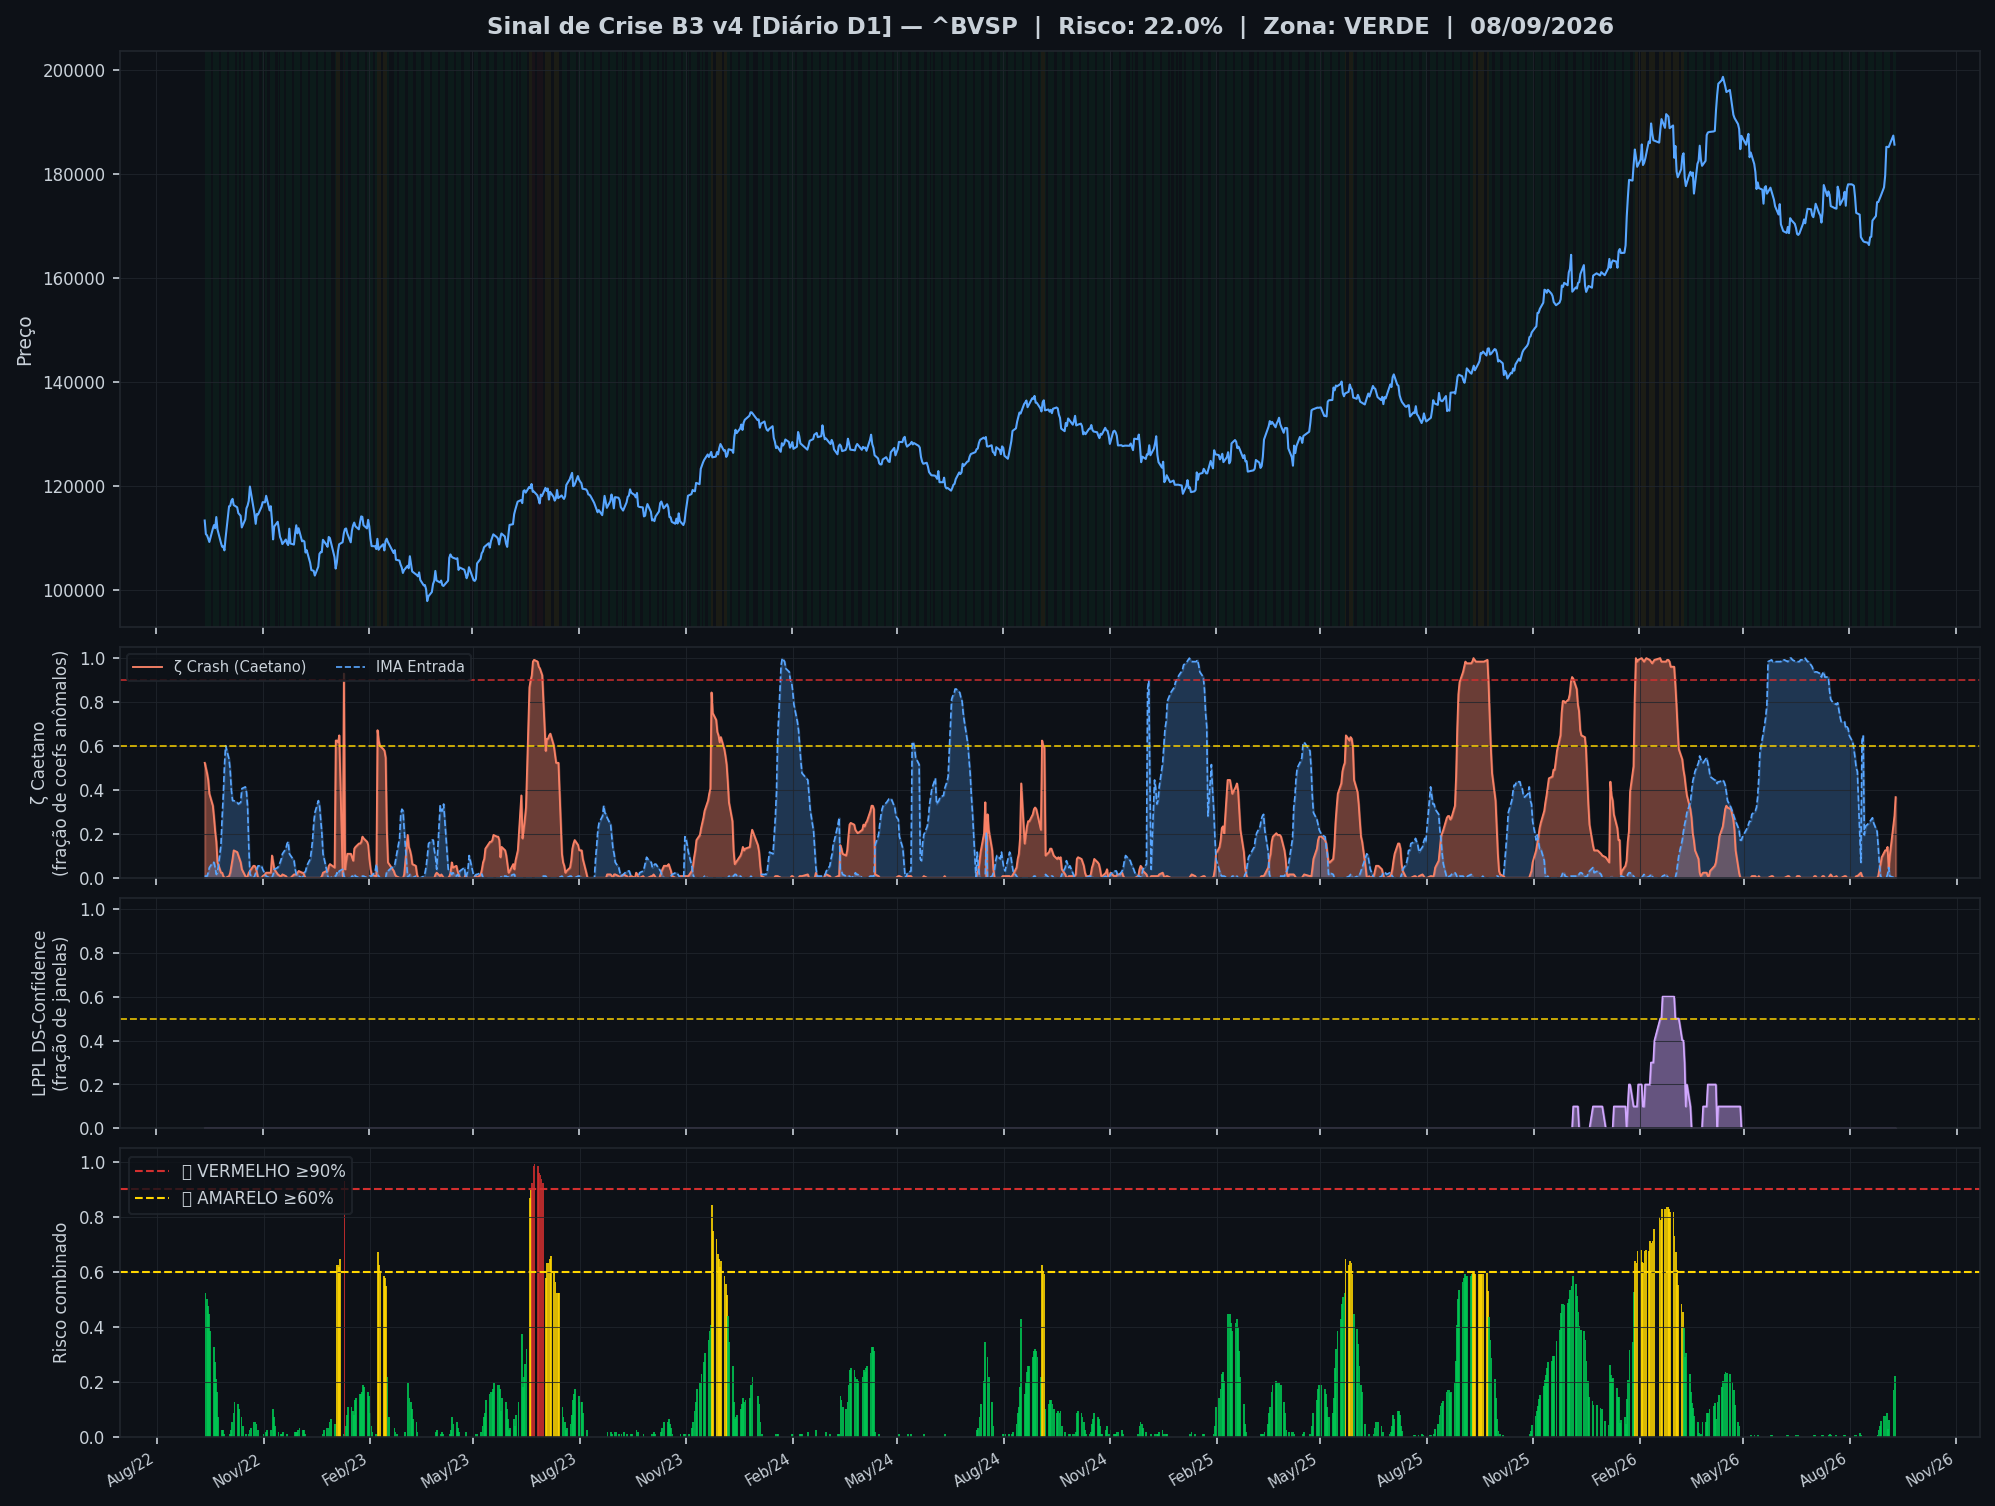
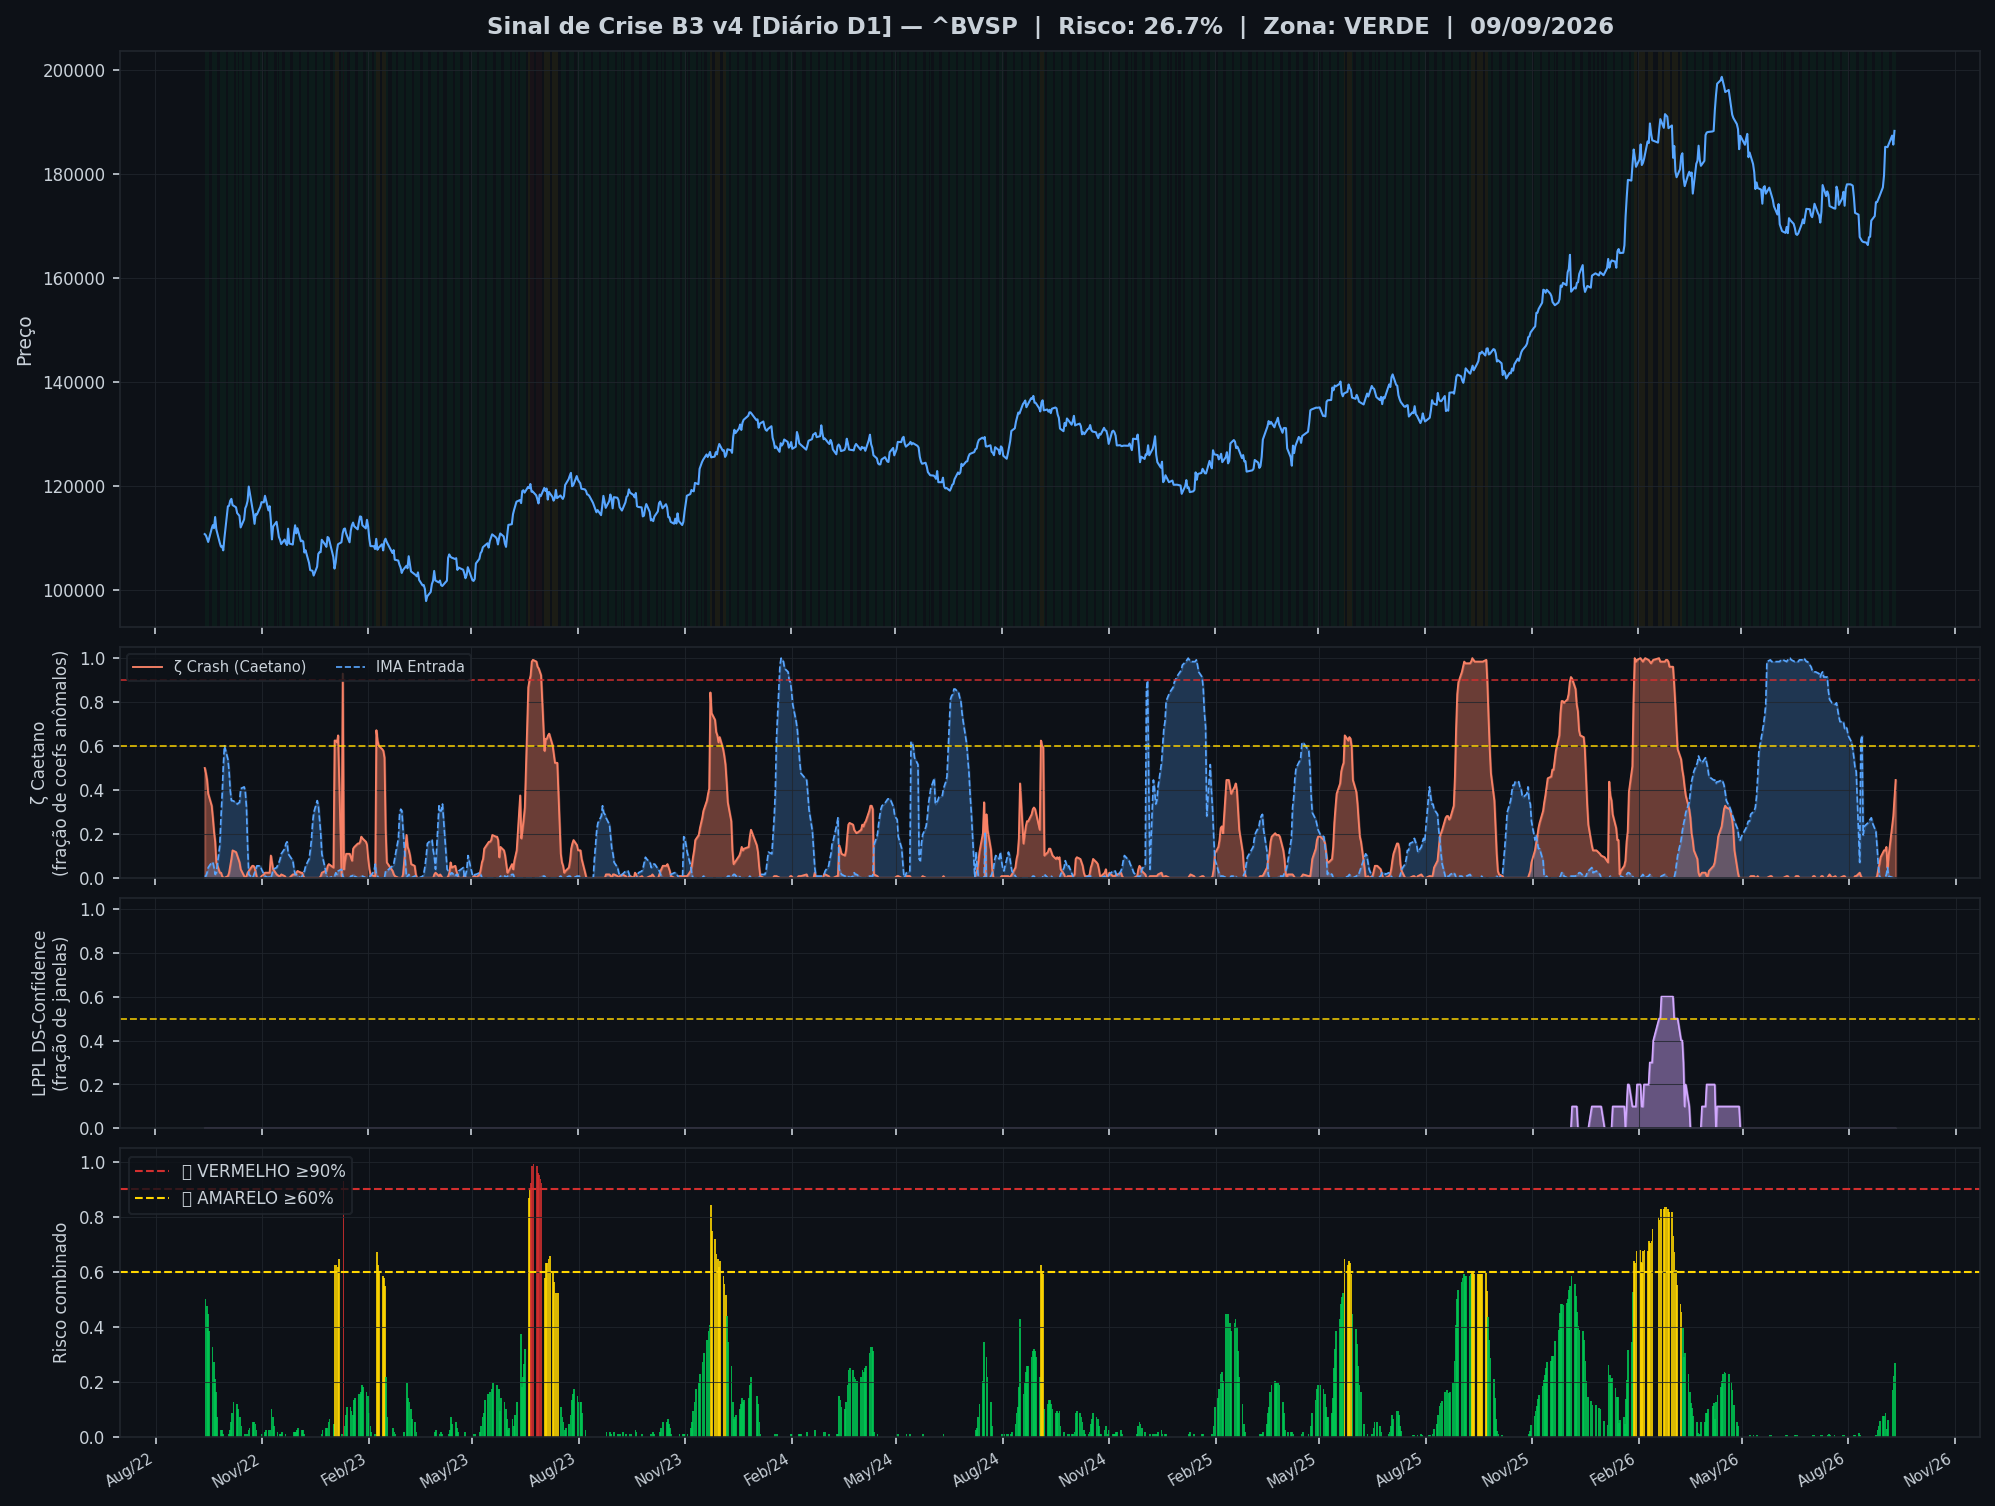
🤖 Auto: Sinal 10/09/2026 19:00

diff --git a/content/diario/2026-09-09.md b/content/diario/2026-09-09.md
@@ -1,0 +1,103 @@
+---
+title: "🟢 Diário 09/09/2026 — VERDE"
+date: 2026-09-10
+tags: [diario]
+---
+
+> [!success] 🟢 **VERDE** — Risco 27% · ▲ +5 p.p. vs leitura anterior
+> `█████░░░░░░░░░░░░░░░`
+> Mercado sem sinais relevantes de estresse.
+
+
+| Indicador | Valor |
+|---|---|
+| 🔴 ζ Crash — severidade da queda em curso | **45%** |
+| 🔵 ζ Entrada — estrutura de fundo | 0% |
+| 🫧 LPPL DS-Confidence | 0% |
+| 📊 Ibovespa | 188.269 pts |
+
+![Gráfico do sinal](../graficos/sinal_diario.png)
+
+## Últimos 30 pregões
+
+| Data | Zona | Risco | IMA Crash | Entrada | LPPL |
+|---|---|---|---|---|---|
+| 2026-09-09 21:00 | 🟢 VERDE | **27%** | 45% | 0% | 0% |
+| 2026-09-08 21:00 | 🟢 VERDE | **22%** | 37% | 0% | 0% |
+| 2026-09-07 21:00 | 🟢 VERDE | **17%** | 28% | 0% | 0% |
+| 2026-09-03 21:00 | 🟢 VERDE | **6%** | 10% | 1% | 0% |
+| 2026-09-02 21:00 | 🟢 VERDE | **3%** | 5% | 5% | 0% |
+| 2026-09-01 21:00 | 🟢 VERDE | **8%** | 14% | 2% | 0% |
+| 2026-08-31 21:00 | 🟢 VERDE | **8%** | 12% | 0% | 0% |
+| 2026-08-30 21:00 | 🟢 VERDE | **8%** | 12% | 0% | 0% |
+| 2026-08-27 21:00 | 🟢 VERDE | **6%** | 9% | 0% | 0% |
+| 2026-08-26 21:00 | 🟢 VERDE | **4%** | 6% | 1% | 0% |
+| 2026-08-25 21:00 | 🟢 VERDE | **2%** | 4% | 6% | 0% |
+| 2026-08-24 21:00 | 🟢 VERDE | **0%** | 1% | 14% | 0% |
+| 2026-08-23 21:00 | 🟢 VERDE | **0%** | 0% | 21% | 0% |
+| 2026-08-20 21:00 | 🟢 VERDE | **0%** | 0% | 25% | 0% |
+| 2026-08-19 21:00 | 🟢 VERDE | **0%** | 0% | 27% | 0% |
+| 2026-08-18 21:00 | 🟢 VERDE | **0%** | 0% | 27% | 0% |
+| 2026-08-17 21:00 | 🟢 VERDE | **0%** | 0% | 26% | 0% |
+| 2026-08-16 21:00 | 🟢 VERDE | **0%** | 0% | 25% | 0% |
+| 2026-08-13 21:00 | 🟢 VERDE | **0%** | 0% | 23% | 0% |
+| 2026-08-12 21:00 | 🟢 VERDE | **0%** | 0% | 20% | 0% |
+| 2026-08-11 21:00 | 🟢 VERDE | **0%** | 0% | 65% | 0% |
+| 2026-08-10 21:00 | 🟢 VERDE | **0%** | 1% | 62% | 0% |
+| 2026-08-09 21:00 | 🟢 VERDE | **1%** | 2% | 7% | 0% |
+| 2026-08-06 21:00 | 🟢 VERDE | **0%** | 1% | 48% | 0% |
+| 2026-08-05 21:00 | 🟢 VERDE | **0%** | 1% | 50% | 0% |
+| 2026-08-04 21:00 | 🟢 VERDE | **0%** | 0% | 55% | 0% |
+| 2026-08-03 21:00 | 🟢 VERDE | **0%** | 0% | 59% | 0% |
+| 2026-08-02 21:00 | 🟢 VERDE | **0%** | 0% | 62% | 0% |
+| 2026-07-30 21:00 | 🟢 VERDE | **0%** | 0% | 65% | 0% |
+| 2026-07-29 21:00 | 🟢 VERDE | **0%** | 0% | 68% | 0% |
+
+## Monitor Multi-Ativo
+
+**0% dos ativos em tensão** (0🔴 0🟡) — quanto mais ativos disparam juntos, mais confiável o sinal.
+
+| Zona | Ativo | Setor | IMA Crash | IMA Entrada |
+|---|---|---|---|---|
+| 🟢 | **VALE** | Mineração | 37.5% | 18.8% |
+| 🟢 | **ITAUUNIBANCO** | Financeiro | 37.5% | 18.8% |
+| 🟢 | **PETROBRAS** | Petróleo | 37.5% | 18.8% |
+| 🟢 | **PETROBRAS** | Petróleo | 37.5% | 18.8% |
+| 🟢 | **AXIA ENERGIA** | Energia | 37.5% | 18.8% |
+| 🟢 | **SABESP** | Saneamento | 37.5% | 18.8% |
+| 🟢 | **BRADESCO** | Financeiro | 37.5% | 18.8% |
+| 🟢 | **B3** | Financeiro | 37.5% | 18.8% |
+| 🟢 | **ITAUSA** | Financeiro | 37.5% | 18.8% |
+| 🟢 | **WEG** | Industrial | 37.5% | 18.8% |
+| 🟢 | **BTGP BANCO** | Financeiro | 37.5% | 18.8% |
+| 🟢 | **EMBRAER** | Outros | 37.5% | 18.8% |
+| 🟢 | **BRASIL** | Financeiro | 37.5% | 18.8% |
+| 🟢 | **AMBEV S/A** | Consumo | 37.5% | 18.8% |
+| 🟢 | **ENEVA** | Energia | 37.5% | 18.8% |
+| 🟢 | **EQUATORIAL** | Energia | 37.5% | 18.8% |
+| 🟢 | **COPEL** | Energia | 37.5% | 18.8% |
+| 🟢 | **PRIO** | Petróleo | 37.5% | 18.8% |
+| 🟢 | **VIBRA** | Energia | 37.5% | 18.8% |
+| 🟢 | **ULTRAPAR** | Outros | 37.5% | 18.8% |
+| 🟢 | **REDE D OR** | Saúde | 37.5% | 18.8% |
+| 🟢 | **LOCALIZA** | Aluguel | 37.5% | 18.8% |
+| 🟢 | **GERDAU** | Siderurgia | 37.5% | 18.8% |
+| 🟢 | **SUZANO S.A.** | Papel/Celulose | 37.5% | 18.8% |
+| 🟢 | **USD/BRL** | Câmbio | 35.9% | 17.2% |
+
+![Monitor multi-ativo](../graficos/multi_diario.png)
+
+*Página atualizada em 10/09/2026 19:00 BRT (leitura da barra de 2026-09-09 BRT).*
+
+> [!info]- Como interpretar (clique para expandir)
+> - **ζ Crash**: fração dos coeficientes wavelet acima do corte (Caetano & Yoneyama 2009). Escala absoluta: ζ=0,90 = 90% dos coeficientes anômalos — historicamente, quedas com ζ≥0,90 foram mais fundas e mais longas. **Mede a severidade do movimento em curso, não prevê o início da queda.**
+> - **ζ Entrada**: coeficientes negativos além do corte — estrutura de fundo, possível região de compra.
+> - **LPPL DS-Confidence**: fração de janelas (60–504 pregões) em que o modelo de bolha de Sornette produz um ajuste válido. 30% já é relevante; acima de 50% é forte evidência de estrutura de bolha.
+> - **Zonas com histerese**: o sinal só muda de zona ao cruzar o limiar de entrada, e só volta ao cruzar o de saída — evita flip-flop diário.
+
+
+---
+*Sinal de Crise B3 v4 · IMA Wavelet ([Caetano & Yoneyama, Physica-A 2007](https://doi.org/10.1016/j.physa.2007.03.054)) + LPPL DS-Confidence (Sornette, ETH-Zurich) · [Metodologia](metodologia) · [Histórico](historico)*
+
+> [!quote]- Aviso
+> Estudo acadêmico. Não constitui recomendação de investimento.

diff --git a/content/index.md b/content/index.md
@@ -8,19 +8,19 @@ tags: [home]
 
 Monitoramento diário e intraday do Ibovespa — **IMA Wavelet** (Prof. Marco Antonio Leonel Caetano, ITA/INSPER) + **LPPL DS-Confidence** (Prof. Didier Sornette, ETH-Zurich).
 
-*Última atualização: 10/09/2026 17:30 BRT · ^BVSP · Intraday 15min · v4*
+*Última atualização: 10/09/2026 19:00 BRT · ^BVSP · Diário D1 · v4*
 
-> [!success] 🟢 **VERDE** — Risco 2% · ＝ +0 p.p. vs leitura anterior
-> `░░░░░░░░░░░░░░░░░░░░`
+> [!success] 🟢 **VERDE** — Risco 27% · ▲ +5 p.p. vs leitura anterior
+> `█████░░░░░░░░░░░░░░░`
 > Mercado sem sinais relevantes de estresse.
 
 
 | Indicador | Valor |
 |---|---|
-| 🔴 ζ Crash — severidade da queda em curso | **2%** |
+| 🔴 ζ Crash — severidade da queda em curso | **45%** |
 | 🔵 ζ Entrada — estrutura de fundo | 0% |
 | 🫧 LPPL DS-Confidence | 0% |
-| 📊 Ibovespa | 188.258 pts |
+| 📊 Ibovespa | 188.269 pts |
 
 **Multi-ativo:** 0% em tensão (0🔴 0🟡 de 25 ativos)
 
@@ -32,8 +32,13 @@ Monitoramento diário e intraday do Ibovespa — **IMA Wavelet** (Prof. Marco An
 
 | Data | Zona | Risco | IMA | LPPL |
 |---|---|---|---|---|
-| [10 Sep 2026](diario/2026-09-10) | 🟢 VERDE | **2%** | 2% | 0% |
-| [09 Sep 2026](diario/2026-09-09) | 🟢 VERDE | **0%** | 0% | 0% |
+| [09 Sep 2026](diario/2026-09-09) | 🟢 VERDE | **27%** | 45% | 0% |
+| [08 Sep 2026](diario/2026-09-08) | 🟢 VERDE | **22%** | 37% | 0% |
+| [07 Sep 2026](diario/2026-09-07) | 🟢 VERDE | **17%** | 28% | 0% |
+| [03 Sep 2026](diario/2026-09-03) | 🟢 VERDE | **6%** | 10% | 0% |
+| [02 Sep 2026](diario/2026-09-02) | 🟢 VERDE | **3%** | 5% | 0% |
+| [01 Sep 2026](diario/2026-09-01) | 🟢 VERDE | **8%** | 14% | 0% |
+| [31 Aug 2026](diario/2026-08-31) | 🟢 VERDE | **8%** | 12% | 0% |
 
 ## Navegação
 

diff --git a/content/historico.md b/content/historico.md
@@ -7,6 +7,7 @@ tags: [historico]
 
 | Data | Modo | Zona | Risco | IMA | LPPL |
 |---|---|---|---|---|---|
+| 2026-09-09 | diario | 🟢 VERDE | 27% | 45% | 0% |
 | 2026-09-10 16:45 | intraday | 🟢 VERDE | 2% | 2% | 0% |
 | 2026-09-10 16:30 | intraday | 🟢 VERDE | 2% | 2% | 0% |
 | 2026-09-10 16:15 | intraday | 🟢 VERDE | 1% | 1% | 0% |
